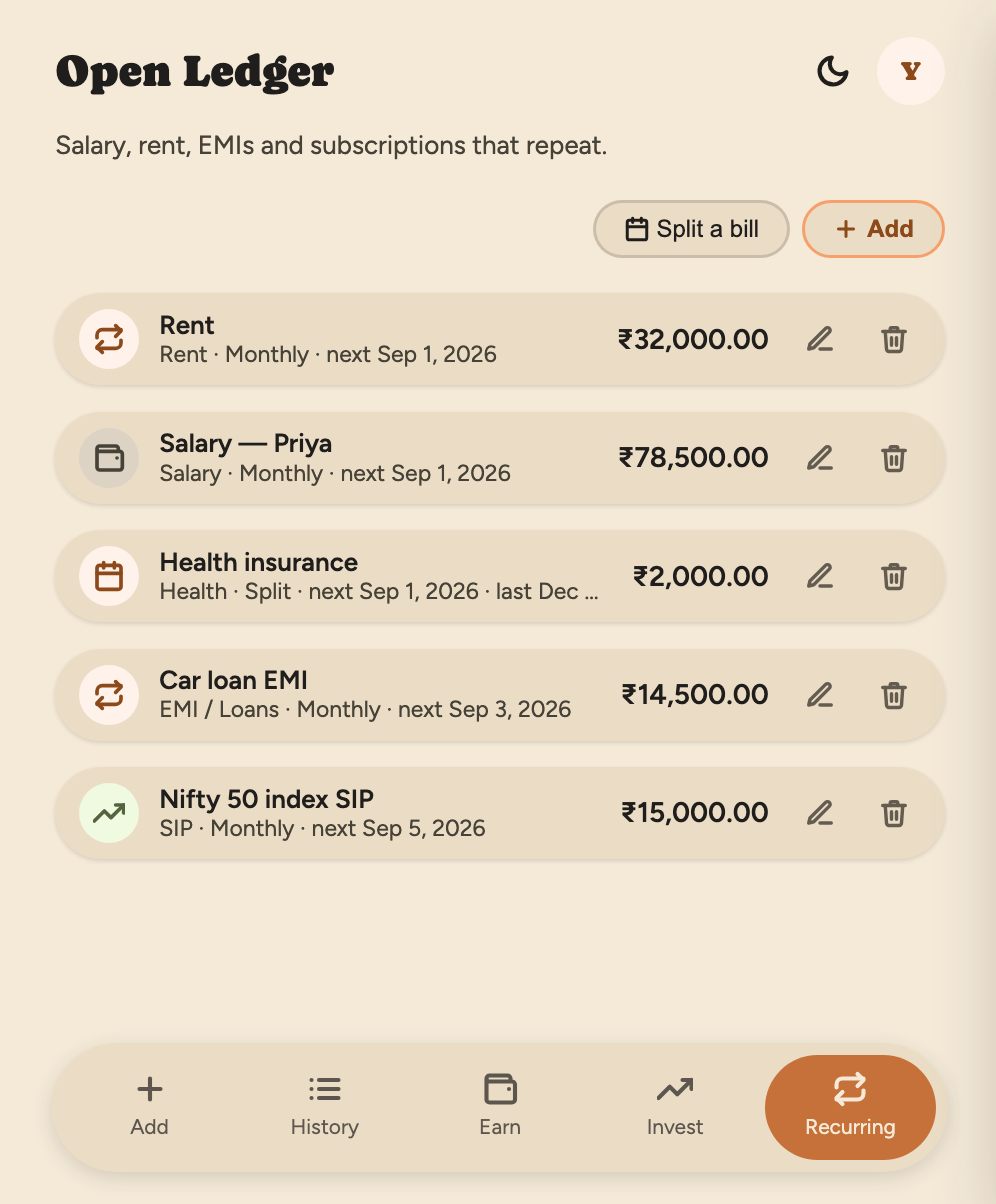
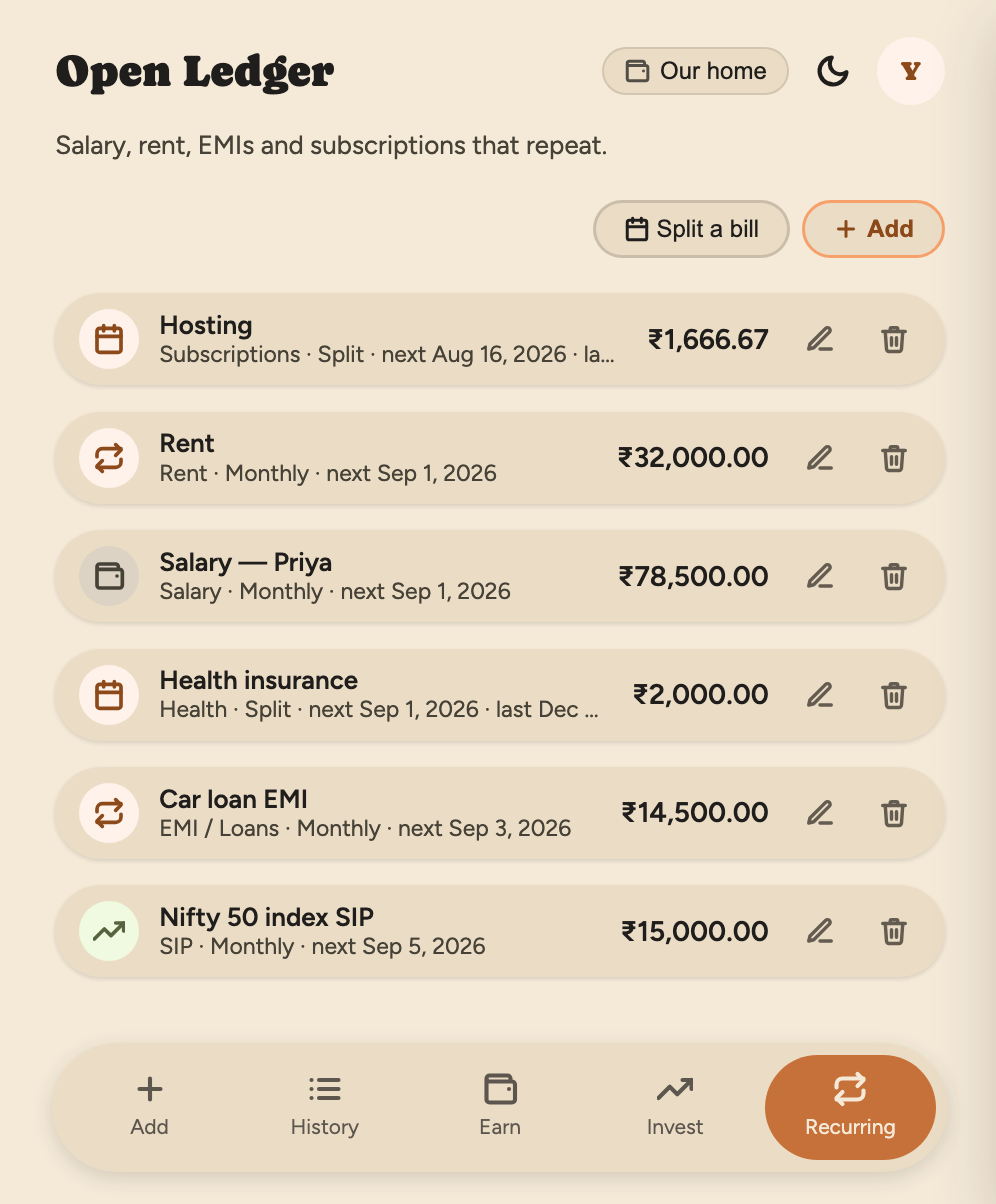
Say whose ledger it is, and show the app as it now works
Everyone's first ledger was called "Personal", so the moment two people shared
one, the picker showed two identical rows and no way to tell them apart. New
ledgers now take the first word of their owner's name — Priya's row says
"Priya" — and the migration renames any ledger still carrying a default nobody
typed ("My Household", "Personal") to match. A deliberately renamed household
is not on that list and is left alone.

The header chip and the picker rows also stopped saying "shared", because once
you both own a ledger and belong to someone else's, "shared" is true of both
and tells you nothing. The icon now answers the useful question — whose is it:
a wallet for a ledger you own, two figures for one someone shared with you.
That is the fact that changes what you can edit and whose books you are adding
to.

The landing page catches up with the release. A sixth feature section — "One
book, everyone's handwriting" — describes the one-shot invite link, drawn in
the house style and slotted at the end of the list so the left-right rhythm of
the other five survives. Two claims the release had made false are corrected:
the card that promised "no invites to approve", and the FAQ that said currency
is per person. A new FAQ answers the question people will actually ask before
signing in: no, your family cannot see your personal ledger.

Every doc screenshot is regenerated to show the app as it now works — filter
[…]

diff --git a/views.php b/views.php
@@ -196,7 +196,11 @@ function layout(PDO $db, array $user, string $tab, string $content, string $requ
     $ledgerTag  = '';
     if ($ledgerName !== '') {
         $others = array_values(array_filter($ledgers, fn($l) => (int)$l['id'] !== (int)$user['household_id']));
-        $label  = h($ledgerName);
+        // Whose ledger is this — not whether it is shared. Once you both own one and belong to
+        // someone else's, "shared" is true of both and tells you nothing; "mine or theirs" is
+        // the fact that changes what you can edit and whose books you are adding to.
+        $owned = ($user['role'] ?? ROLE_MEMBER) === ROLE_OWNER;
+        $label = icon($owned ? 'wallet' : 'users', 13) . '<span>' . h($ledgerName) . '</span>';
         if (count($ledgers) === 2 && $others) {
             // display:contents so the form itself does not become a flex item and knock the
             // header's spacing about — the button stays a direct child for layout purposes.
@@ -221,7 +225,7 @@ function layout(PDO $db, array $user, string $tab, string $content, string $requ
                     . '<button type="submit" class="card elev-sm row"' . ($on ? ' autofocus' : '')
                     . ' style="width:100%; margin:0 0 8px; text-align:left; border:none; cursor:pointer;'
                     . ($on ? ' outline:2px solid var(--color-accent); outline-offset:-2px;' : '') . '">'
-                    . '<span class="row-icon">' . icon($on ? 'check' : 'wallet', 18) . '</span>'
+                    . '<span class="row-icon">' . icon($on ? 'check' : ($l['role'] === ROLE_OWNER ? 'wallet' : 'users'), 18) . '</span>'
                     . '<span class="row-main"><span class="title" style="display:block;">' . h((string)$l['name']) . '</span>'
                     . '<span class="sub" style="display:block;">'
                     . ($l['role'] === ROLE_OWNER ? 'You own this' : 'Shared with you') . '</span></span>'
@@ -233,7 +237,8 @@ function layout(PDO $db, array $user, string $tab, string $content, string $requ
                 . '<button type="button" class="btn btn-secondary" onclick="document.getElementById(\'ledger-dlg\').close()">Cancel</button>'
                 . '<a class="btn" href="/ledgers">Manage</a></div></dialog>';
         } else {
-            $ledgerTag = '<a class="hdr-ledger" href="/ledgers" title="' . $label . '">' . $label . '</a>';
+            $ledgerTag = '<a class="hdr-ledger" href="/ledgers" title="' . h($ledgerName)
+                . ($owned ? ' — your ledger' : ' — shared with you') . '">' . $label . '</a>';
         }
     }
 
@@ -263,11 +268,15 @@ $meta
   /* max-width in vw, not px: the brand is fixed-width, so the ledger name is the only thing
      that can give, and it must give before the avatar is pushed off a 320px screen. */
   .hdr-ledger {
-    max-width:34vw; overflow:hidden; text-overflow:ellipsis; white-space:nowrap;
+    display:inline-flex; align-items:center; gap:5px; max-width:34vw;
     font-size:12px; padding:4px 10px; border-radius:999px; text-decoration:none;
     color:var(--color-text); background:var(--color-surface);
     border:1px solid color-mix(in srgb, var(--color-text) 12%, transparent);
   }
+  /* Only the name gives when the header runs out of room — the icon must not be squashed
+     out of existence, since it is the whole point of the distinction. */
+  .hdr-ledger span { overflow:hidden; text-overflow:ellipsis; white-space:nowrap; }
+  .hdr-ledger svg { flex:none; opacity:.75; }
   .hdr-ledger:active { transform:scale(0.97); }
   .hdr-actions form, .hdr-actions a { display:inline-flex; margin:0; }
   .avatar { width:34px; height:34px; border-radius:999px; background:var(--color-accent-100); color:var(--color-accent-700); border:none; cursor:pointer; font-family:var(--font-heading); font-size:13px; }
@@ -679,9 +688,6 @@ function renderProfileDrawer(PDO $db, array $user, string $requestUri): void {
 
         <hr>
 
-
-        <hr>
-
         <details>
           <summary><h4>Investment types</h4></summary>
           <div class="details-body">
@@ -796,9 +802,6 @@ function renderProfileDrawer(PDO $db, array $user, string $requestUri): void {
             </form>
           </div>
         </details>
-
-        <hr>
-
 
         <div style="flex:1;"></div>
 
@@ -984,9 +987,9 @@ function renderLanding(): void {
   <section class="hero">
     <div style="display:flex;flex-direction:column;gap:var(--space-4);align-items:flex-start;">
       <h1>Where the money in a house actually goes.</h1>
-      <p class="lede">A free, open-source ledger for one household. Log a spend in three
-        taps, let the rent post itself, and let the year explain itself. Built for a
-        phone, priced at nothing, yours to self-host.</p>
+      <p class="lede">A free, open-source ledger for the whole house. Log a spend in three
+        taps, invite your family with one link, let the rent post itself, and let the
+        year explain itself. Built for a phone, priced at nothing, yours to self-host.</p>
       <div class="cta-row">
         <a class="btn btn-primary" href="/login">Sign in with Google</a>
         <a class="btn btn-secondary" href="<?= h($repo) ?>">Read the source</a>
@@ -1146,6 +1149,31 @@ function renderLanding(): void {
     </div>
   </section>
 
+  <section class="feat flip">
+    <div>
+      <h2>One book, everyone's handwriting.</h2>
+      <p>Send one link — it works once and dies in thirty minutes. Whoever opens it
+        signs in and is in your ledger, and still keeps their own. Everyone reads
+        everything; each person edits what they added; the owner can fix anything.
+        A filter shows who's spending what.</p>
+    </div>
+    <div class="art">
+      <svg viewBox="0 0 160 120" fill="none" stroke="currentColor" stroke-width="1.7"
+           stroke-linecap="round" stroke-linejoin="round" aria-hidden="true">
+        <!-- two people, one open book between them, a one-shot link arriving -->
+        <circle cx="34" cy="38" r="9" stroke="var(--color-accent)"/>
+        <path d="M20 66 a14 14 0 0 1 28 0"/>
+        <circle cx="126" cy="38" r="9" stroke="var(--color-accent-2)"/>
+        <path d="M112 66 a14 14 0 0 1 28 0"/>
+        <path d="M52 86 h24 a10 10 0 0 1 10 10 a10 10 0 0 1 10-10 h24 v18 a8 8 0 0 0-8-8 H94 a8 8 0 0 0-8 8 a8 8 0 0 0-8-8 H60 a8 8 0 0 0-8 8 Z"/>
+        <path d="M60 94 h14 M60 100 h9 M100 94 h14 M100 100 h9" stroke-width="1.4"/>
+        <path d="M52 38 h20 m8 0 h20" stroke-dasharray="3 5" stroke="var(--color-accent)"/>
+        <circle cx="80" cy="38" r="7" stroke="var(--color-accent)"/>
+        <path d="M80 34.5 v3.5 l2.5 2" stroke="var(--color-accent)"/>
+      </svg>
+    </div>
+  </section>
+
   <h2 style="padding-top:var(--space-6);">Also in the book</h2>
   <div class="grid">
     <div class="card">
@@ -1162,9 +1190,10 @@ function renderLanding(): void {
     </div>
     <div class="card">
       <?= icon('home', 22) ?>
-      <div class="card-title">One ledger, everyone in it</div>
-      <p class="card-body">Add each member once, then attribute any expense to whoever
-        spent it. No invites to approve, no per-seat anything.</p>
+      <div class="card-title">Everyone's, but yours</div>
+      <p class="card-body">Up to ten people per ledger, and you keep a personal one
+        too. Filter any tab by who spent it; names for kids and shared cards need
+        no login at all.</p>
     </div>
     <div class="card">
       <?= icon('moon', 22) ?>
@@ -1214,8 +1243,14 @@ function renderLanding(): void {
     </details>
     <details class="faq">
       <summary>Does it do currencies other than rupees?</summary>
-      <p>The currency symbol is free text, per person. The lakh-crore grouping is
-        what it was built for.</p>
+      <p>Each ledger has its own symbol, set by its owner — and its own digit
+        grouping, ₹10,00,000 or ₹1,000,000. Lakh-crore is what it was built for.</p>
+    </details>
+    <details class="faq">
+      <summary>Can my family see my personal ledger?</summary>
+      <p>No. Each ledger is its own book with its own people. Sharing one of yours
+        means sending a link that works once and expires in thirty minutes — nobody
+        gets in any other way.</p>
     </details>
     <details class="faq">
       <summary>What isn't in it?</summary>
@@ -1334,12 +1369,10 @@ $sprite
     $devBlock
     $flashHtml
   </div>
-  <div style="text-align:center; margin-top:14px; font-size:12px; color:var(--color-neutral-800);">
+  <div style="display:flex; flex-direction:column; align-items:center; gap:10px; text-align:center; margin-top:14px; font-size:12px; color:var(--color-neutral-800);">
     <a href="/" style="color:inherit; text-decoration:underline; text-underline-offset:2px;">What is Open Ledger?</a>
-    &nbsp;·&nbsp;
     <a href="/terms" style="color:inherit; text-decoration:underline; text-underline-offset:2px;">Terms &amp; conditions</a>
-    &nbsp;·&nbsp;
-    Built by <a href="https://xpertxyz.in" style="color:var(--color-accent-700); text-decoration:none;">XpertXYZ</a>
+    <span>Built by <a href="https://xpertxyz.in" style="color:var(--color-accent-700); text-decoration:none;">XpertXYZ</a></span>
   </div>
 </div>
 </body></html>
@@ -3506,7 +3539,7 @@ function renderLedgers(PDO $db, array $user): void {
           <button type="submit" name="back" value="/ledgers" class="card elev-sm row"
                   aria-current="<?= $on ? 'true' : 'false' ?>"
                   style="flex:1; margin:0; text-align:left; border:none; cursor:pointer;<?= $on ? ' outline:2px solid var(--color-accent); outline-offset:-2px;' : '' ?>">
-            <span class="row-icon"><?= icon($on ? 'check' : 'wallet', 18) ?></span>
+            <span class="row-icon"><?= icon($on ? 'check' : ($l['role'] === ROLE_OWNER ? 'wallet' : 'users'), 18) ?></span>
             <span class="row-main">
               <span class="title" style="display:block;"><?= h($l['name']) ?></span>
               <span class="sub" style="display:block;">

diff --git a/lib.php b/lib.php
@@ -243,7 +243,7 @@ const MIGRATIONS = [
 // Bump alongside any change to SCHEMA_STATEMENTS/MIGRATIONS. Its presence in data/ is what
 // makes the bootstrap skip itself after the first request. Named here rather than inline so
 // --preflight can report the exact file the running code looks for.
-const SCHEMA_SENTINEL = '.schema-ok-v16';
+const SCHEMA_SENTINEL = '.schema-ok-v17';
 
 // A ledger is a household; these are the only two roles it has. The owner is whoever created
 // it — they can edit every entry, invite people and remove them. Everyone else edits their own.
@@ -318,6 +318,20 @@ function makeDb(array $cfg): PDO {
                   WHERE e.recurring_id = r.id),
                  r.next_date)
              WHERE r.end_date IS NOT NULL AND r.start_date IS NULL"
+        );
+        // v17 backfill — ledgers still carrying a name nobody typed. Both of these were
+        // defaults, so renaming them takes away no one's choice, and leaving them means two
+        // people who share a ledger see two identical rows in the picker. A household that was
+        // deliberately renamed is untouched, because its name is not in this list.
+        $db->exec(
+            "UPDATE households h
+             JOIN (SELECT hu.household_id, MIN(hu.user_id) uid FROM household_users hu
+                   WHERE hu.role = '" . ROLE_OWNER . "' GROUP BY hu.household_id) o
+               ON o.household_id = h.id
+             JOIN users u ON u.id = o.uid
+             SET h.name = SUBSTRING_INDEX(TRIM(u.name), ' ', 1)
+             WHERE h.name IN ('My Household', 'Personal')
+               AND TRIM(u.name) <> '' AND SUBSTRING_INDEX(TRIM(u.name), ' ', 1) <> ''"
         );
         // v16 backfill — the owner's symbol becomes the ledger's, so the person who set it up
         // sees exactly what they saw before the upgrade. Guarded on the default so a ledger
@@ -708,6 +722,15 @@ function mayEdit(array $row, array $user): bool {
     );
 }
 
+// The default name for somebody's own ledger: the first word of what Google calls them.
+// Falls back to "Personal" for a name that is empty or has no word characters in it, which
+// is rare but not impossible — a display name can be an emoji.
+function ledgerNameFor(string $userName): string {
+    $first = preg_split('/\s+/', trim($userName))[0] ?? '';
+    $first = trim($first);
+    return $first === '' ? 'Personal' : mb_substr($first, 0, 80);
+}
+
 // Mint a join link. Minting supersedes any unused predecessor, so a link the owner shared
 // and then thought better of stops working the moment they generate a fresh one.
 function mintInvite(PDO $db, int $hid, int $uid): string {
@@ -1003,9 +1026,10 @@ function sweepRecurring(PDO $db, int $hid): void {
 function bootstrapHousehold(PDO $db, string $name, string $email, string $googleSub): int {
     $db->beginTransaction();
     try {
-        // "Personal" rather than "My Household": once a person can hold several ledgers this
-        // string is what tells them apart in the picker, and everyone's first one is their own.
-        $db->prepare("INSERT INTO households (name) VALUES (?)")->execute(['Personal']);
+        // Named after its owner, because this string is what tells ledgers apart in the
+        // picker — and a fixed default cannot. Everyone's first ledger used to be called
+        // "Personal", so the moment two people shared one they saw two rows reading "Personal".
+        $db->prepare("INSERT INTO households (name) VALUES (?)")->execute([ledgerNameFor($name)]);
         $hid = (int)$db->lastInsertId();
         $db->prepare("INSERT INTO users (household_id, google_sub, email, name) VALUES (?, ?, ?, ?)")
            ->execute([$hid, $googleSub, $email, $name]);

diff --git a/index.php b/index.php
@@ -196,6 +196,15 @@ if (PHP_SAPI === 'cli') {
         // An unknown or missing style falls back to Indian rather than to an ungrouped number.
         assert(groupNumber(1000000, 0, 'nonsense') === '10,00,000');
 
+        // A ledger is named after its owner so a picker never shows two identical rows.
+        assert(ledgerNameFor('Praveen Kumar Boddupalli') === 'Praveen');
+        assert(ledgerNameFor('Meera')                    === 'Meera');
+        assert(ledgerNameFor('  Anita  Rao ')            === 'Anita');   // collapses whitespace
+        assert(ledgerNameFor('Jean-Luc Picard')          === 'Jean-Luc'); // a hyphen is not a break
+        assert(ledgerNameFor('')                         === 'Personal'); // nothing usable
+        assert(ledgerNameFor('   ')                      === 'Personal');
+        assert(mb_strlen(ledgerNameFor(str_repeat('a', 200))) === 80);    // fits households.name
+
         // One symbol, and one means one character — not one byte, and not "up to eight".
         assert(parseCurrency('₹')   === '₹');
         assert(parseCurrency('$')   === '$');

diff --git a/README.md b/README.md
@@ -40,9 +40,9 @@
 - **Yearly summary** — calendar year *or* Indian financial year (Apr–Mar), with a twelve-month earnings-vs-expenses-vs-investments chart, **Earned / Spent / Invested** totals, a *saved* line (earned − spent), income-source and category and type breakdowns, and per-month averages that divide by *elapsed* months so a year in progress isn't understated. Tap any month to open it in History.
 - **Recurring items** that auto-post on their due date — expenses (rent, EMIs, subscriptions), earnings (salary, interest payouts) and investments (SIPs, RDs, auto-debits). Missed periods catch up in one sweep. Cascade delete of past auto-entries is optional per item.
 - **Split a prepaid bill across the months it covers** — a year of health insurance or two years of hosting is paid once but *used* monthly. Enter the total, the length (6 months to 3 years) and the date you paid it, and an equal share posts to History every month in the category you picked. Months that have already gone by appear immediately; the item stops itself after the last one. The dialog previews the exact monthly share before you save. **Editable afterwards** — got the total or the start date wrong? Reopen it, restate the plan, and every share already posted to History is recalculated and re-posted to match.
-- **Share a ledger with your family** — the owner generates an invite link that works **once** and dies after 30 minutes. Whoever opens it signs in with Google, joins the ledger, and keeps their own private one too; from then on sign-in offers a picker. Up to 10 people per ledger.
+- **Share a ledger with your family** — the owner generates an invite link that works **once** and dies after 30 minutes. Whoever opens it signs in with Google, joins the ledger, and keeps their own private one too; from then on sign-in offers a picker. Up to 10 people per ledger. Ledgers are named after their owner (“Priya”, not a third row called “Personal”), and the header always shows which one you're in — a wallet for your own, two figures for one shared with you.
 - **Everyone sees everything, everyone owns their own entries** — every member reads the whole ledger, but can only edit or delete what they added. The ledger owner can edit anything. The controls are hidden where they wouldn't work, so the rule is visible rather than discovered by being refused.
-- **Filter by person** — one "who?" dropdown on History, Earn, Invest and the yearly summary. Every total, bar and breakdown on the page follows it, and it survives month and year navigation.
+- **Filter by person** — All / Priya / Arjun pills on History, Earn, Invest and the yearly summary. Every total, bar and breakdown on the page follows the pick, and it survives month and year navigation. Only appears once a ledger is actually shared.
 - **Editable everything** — every list row opens an inline edit modal. Rename categories and investment types anywhere and it reflects app-wide.
 - **Public landing page at `/`** for signed-out visitors — what the app is, drawn with inline SVG illustrations built from the design tokens. It loads no third-party script at all: Google Identity Services is pulled only on `/login`, so someone who never signs in never touches Google.
 - **`/robots.txt` and `/sitemap.xml`** generated from the request host, so they're correct on any deployment with nothing to configure. The sitemap lists the landing page only — every app route redirects a crawler to `/login`, which is `noindex`.
@@ -69,7 +69,8 @@
   </tr>
   <tr>
     <td align="center"><img src="docs/screenshots/recurring.png" alt="Recurring" width="240"><br><sub><b>Recurring — repeats and split bills</b></sub></td>
-    <td align="center" colspan="2"><img src="docs/screenshots/profile.png" alt="Profile drawer" width="240"><br><sub><b>Profile drawer — currency, types, members</b></sub></td>
+    <td align="center"><img src="docs/screenshots/ledgers.png" alt="Ledgers and sharing" width="240"><br><sub><b>Ledgers &amp; sharing — invite, people, names</b></sub></td>
+    <td align="center"><img src="docs/screenshots/profile.png" alt="Profile drawer" width="240"><br><sub><b>Profile drawer — navigation and lists</b></sub></td>
   </tr>
 </table>
 

diff --git a/docs/DEPLOY.md b/docs/DEPLOY.md
@@ -88,7 +88,8 @@ Automated checks can't tell you whether the app *feels* right to a real user. Hi
 - [ ] **Landing page renders at `/`** — illustrations draw, theme button flips light/dark and survives a reload, all CTAs land on `/login`
 - [ ] **`/robots.txt` and `/sitemap.xml`** — both 200, and the URLs inside start `https://` with the real domain (not `http://`, not localhost)
 - [ ] **Sign-in card renders at `/login`** — Google button visible (real client id in prod), Terms link works even when signed out
-- [ ] **Sign in with Google** — first-time users get a ledger called "Personal" + 13 categories + 6 investment types + a member label carrying their own name
+- [ ] **Sign in with Google** — first-time users get a ledger named after them (first word of their Google name) + 13 categories + 6 investment types + a member label carrying their own name
+- [ ] **Ledger name in the header** — the chip beside the theme icon shows a people icon on a shared ledger and a wallet on one only you can open
 - [ ] **Invite someone** — Ledgers & sharing → Create invite link, send it to a second Google account on another device. They sign in, land in your ledger, and still have their own "Personal" one. Signing out and back in now shows them the ledger picker
 - [ ] **The link really is one-shot** — open the same invite URL a second time: it must refuse. Leave one unopened for 31 minutes and it must refuse too (preflight proves the window; only a real wait proves the wall clock)
 - [ ] **A member sees but cannot edit** — as the invited person, every row is visible and the totals match, but pencil and trash only appear on rows they added. Add one and confirm both appear on it
